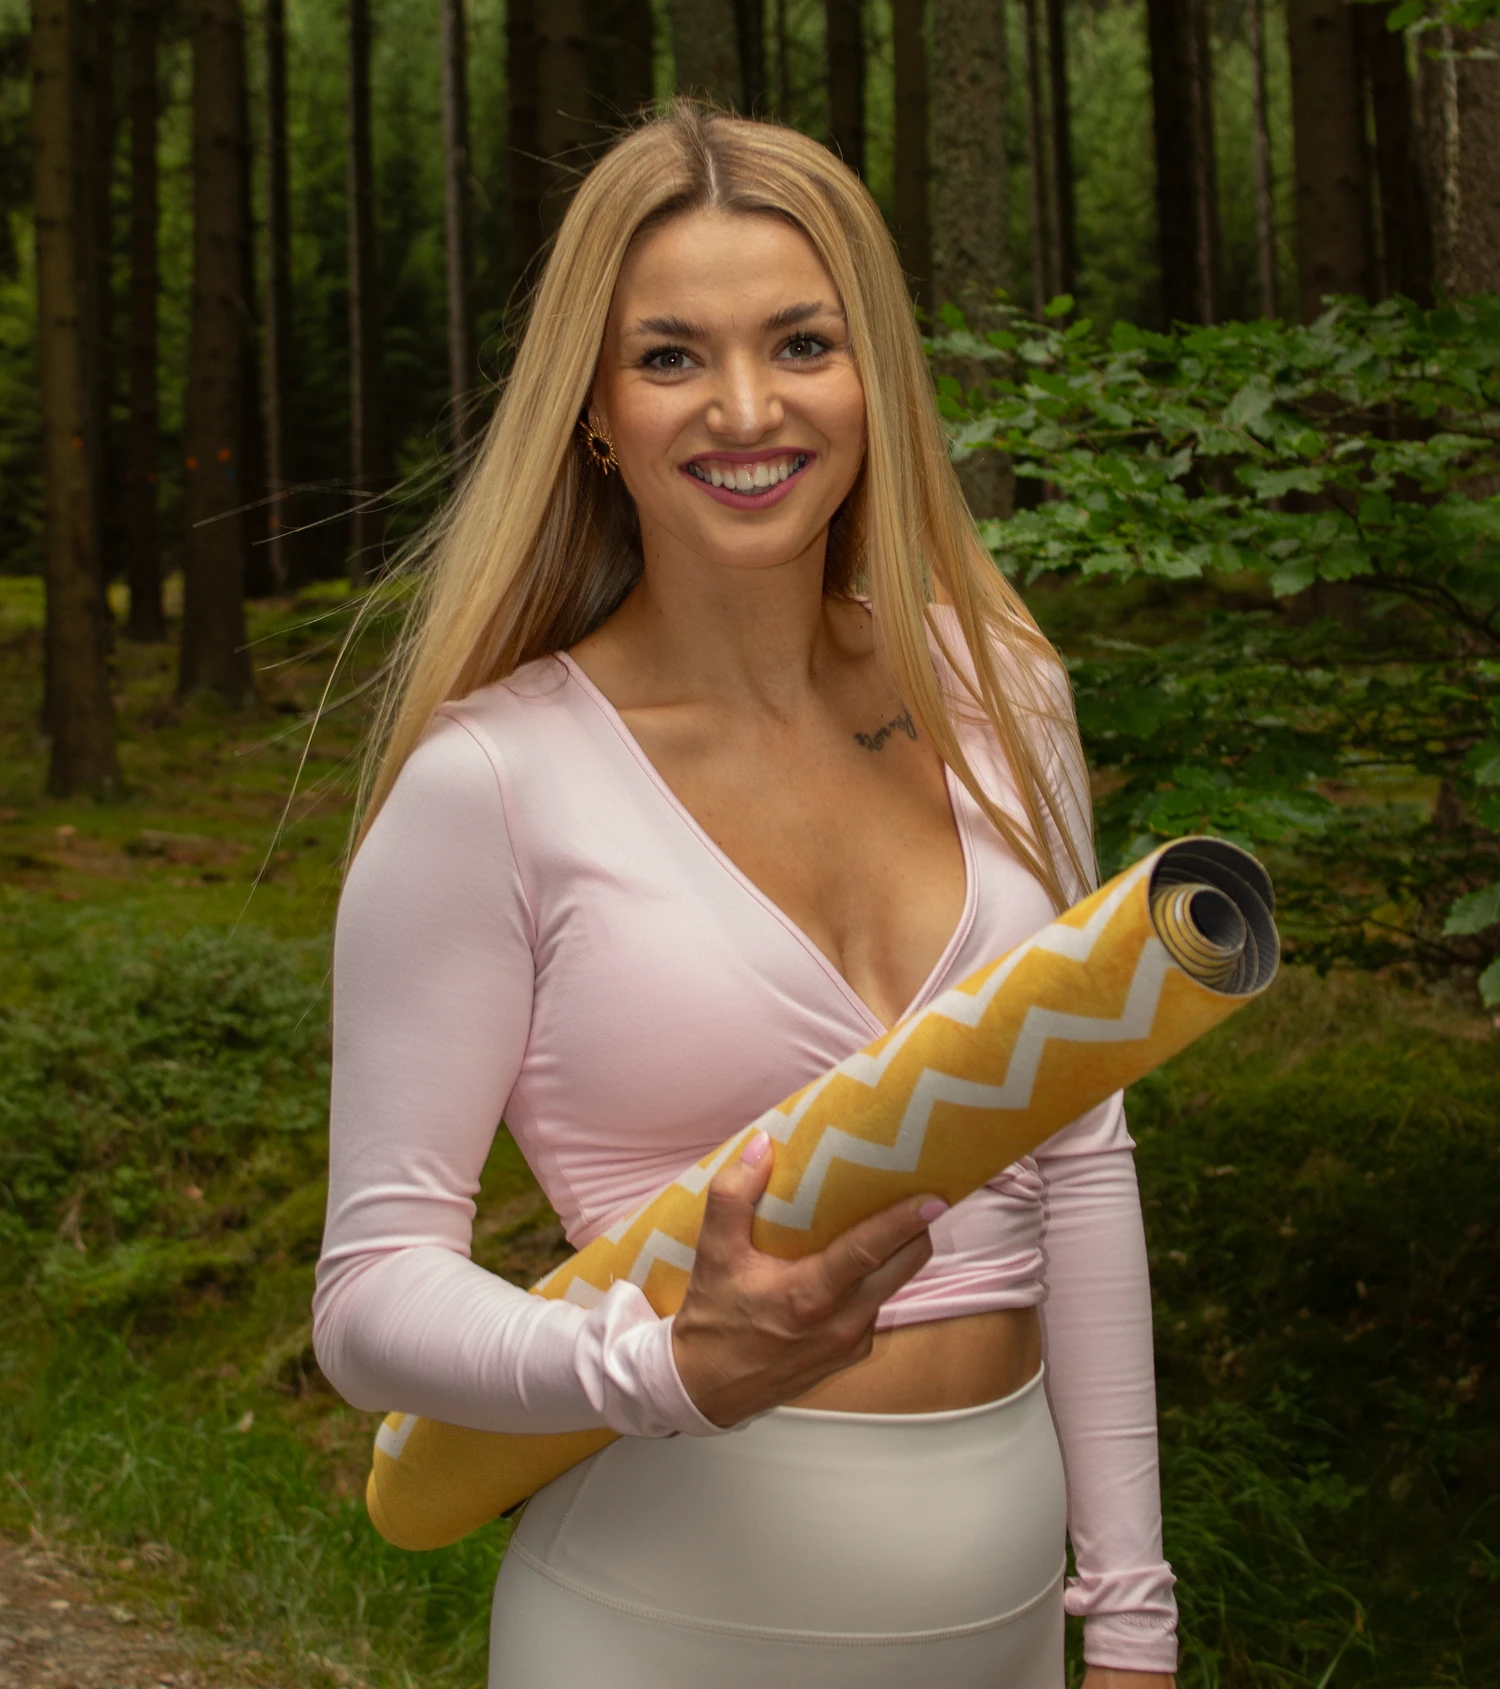
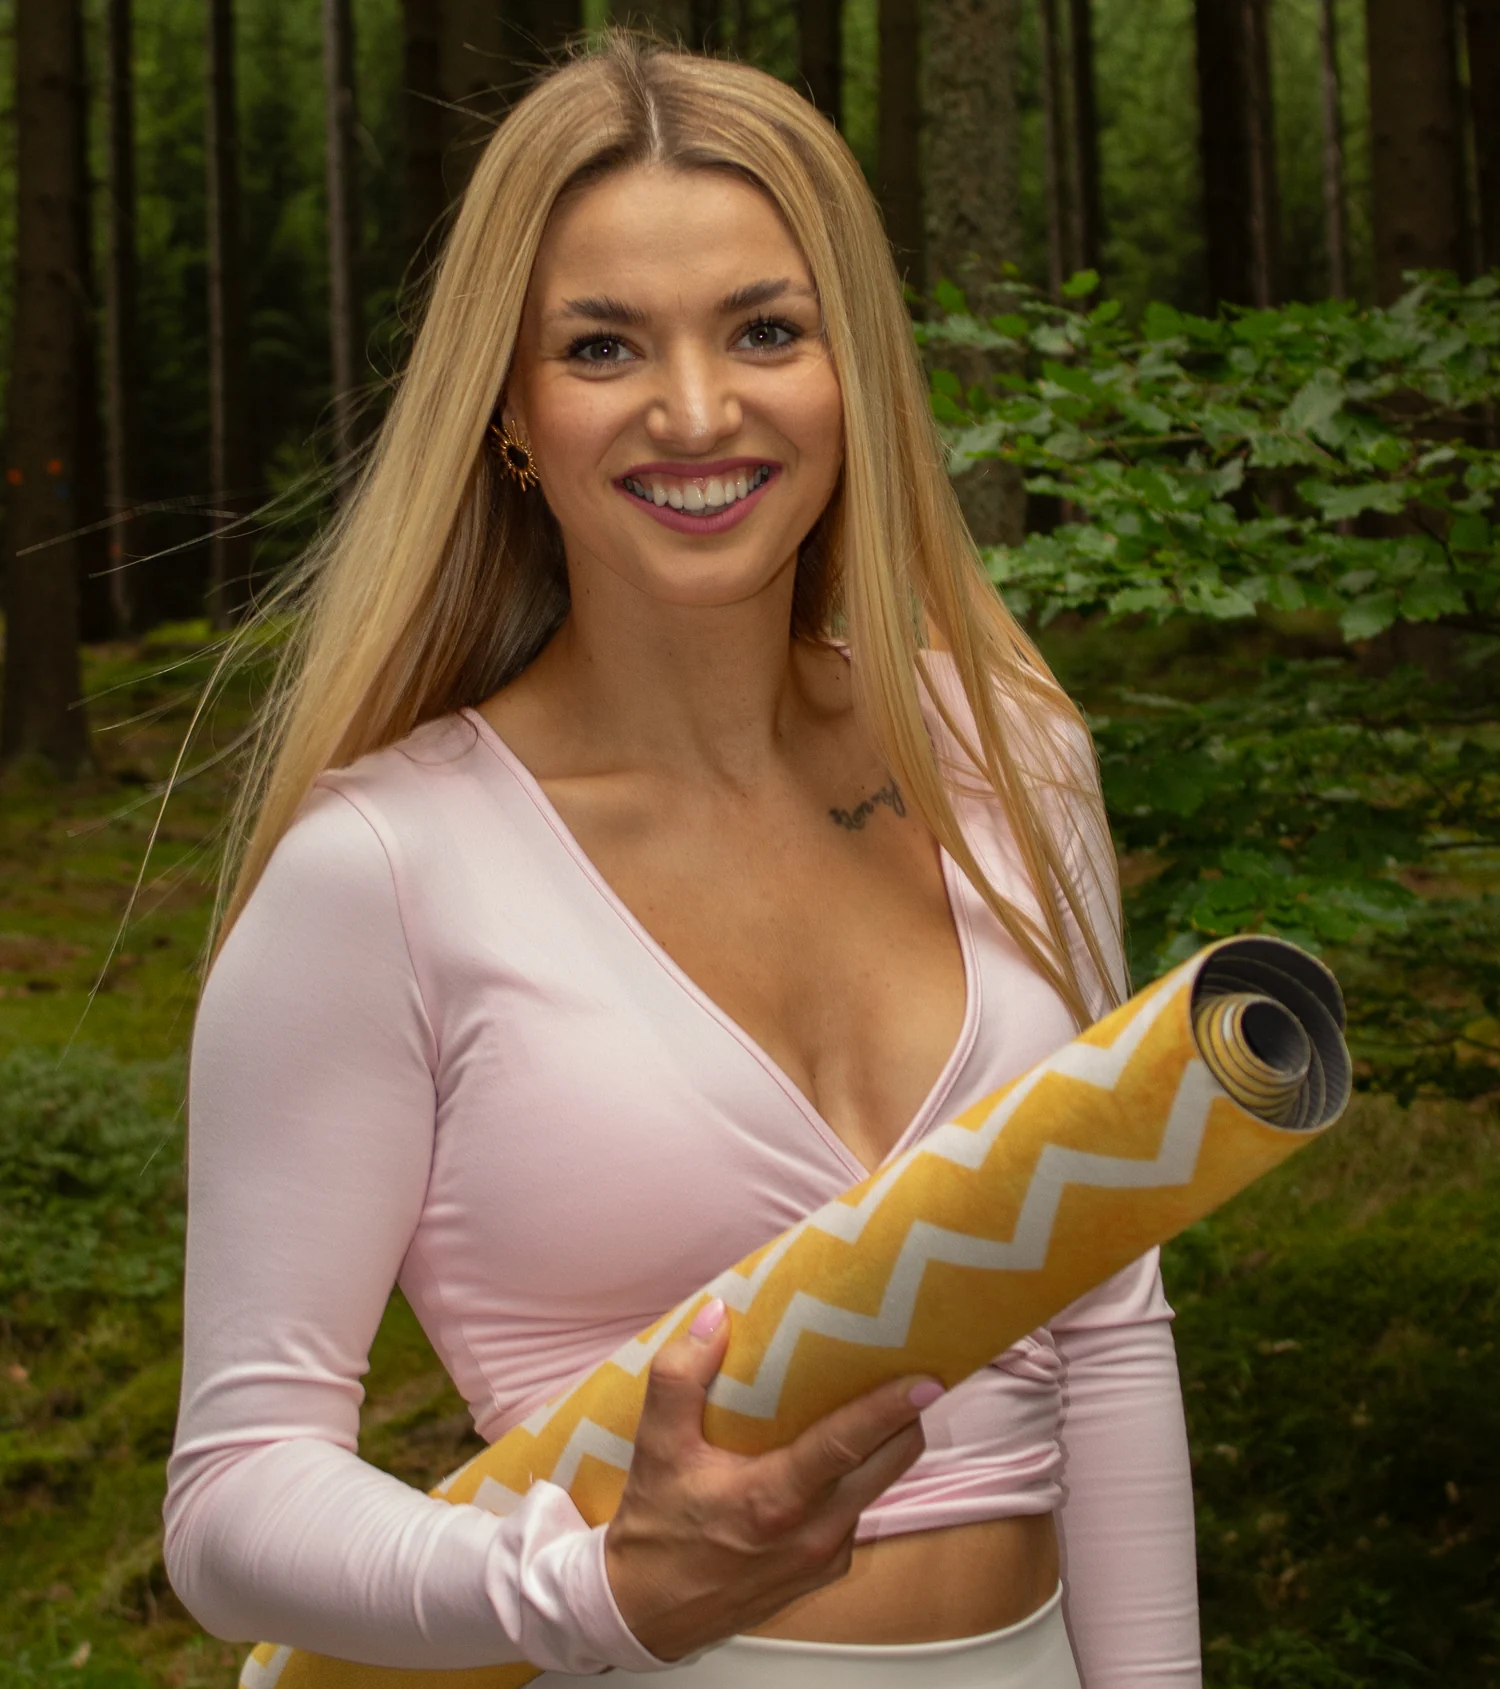
Přiblížit ořez úvodní fotky na O mně
Nad hlavou zbývalo zbytečně moc lesa. Nový ořez z originálu je o čtvrtinu
těsnější — postava vyplní rámeček, hlava i podložka zůstávají celé.

Claude-Session: https://claude.ai/code/session_01S6UAgFvmtPVymEr2fesuqJ

diff --git a/src/app/o-mne/page.tsx b/src/app/o-mne/page.tsx
@@ -176,7 +176,7 @@ export default function OMnePage() {
               levý okraj, a to maskou — překryv by fotku zakalil. */}
           {/* Rám má poměr fotky, takže je vidět celá postava i s podložkou
               a nic se neořezává. Šířka se dopočítá z výšky sekce. */}
-          <div className="absolute bottom-0 right-0 top-24 hidden aspect-[3406/3835] md:block">
+          <div className="absolute bottom-0 right-0 top-24 hidden aspect-[1500/1689] md:block">
             {/* Náběh je krátký — jen změkčí levou hranu. Dlouhý přechod
                 sahal až na postavu a působil jako filtr přes fotku. */}
             <div
@@ -247,7 +247,7 @@ export default function OMnePage() {
           </div>
 
           {/* Telefon: fotka přes celou šířku pod textem, ostrá po všech hranách */}
-          <div className="relative aspect-[3406/3835] w-full overflow-hidden md:hidden">
+          <div className="relative aspect-[1500/1689] w-full overflow-hidden md:hidden">
             <Image
               src="/anezka-o-mne.webp"
               alt="Anežka se srolovanou podložkou v lese"
